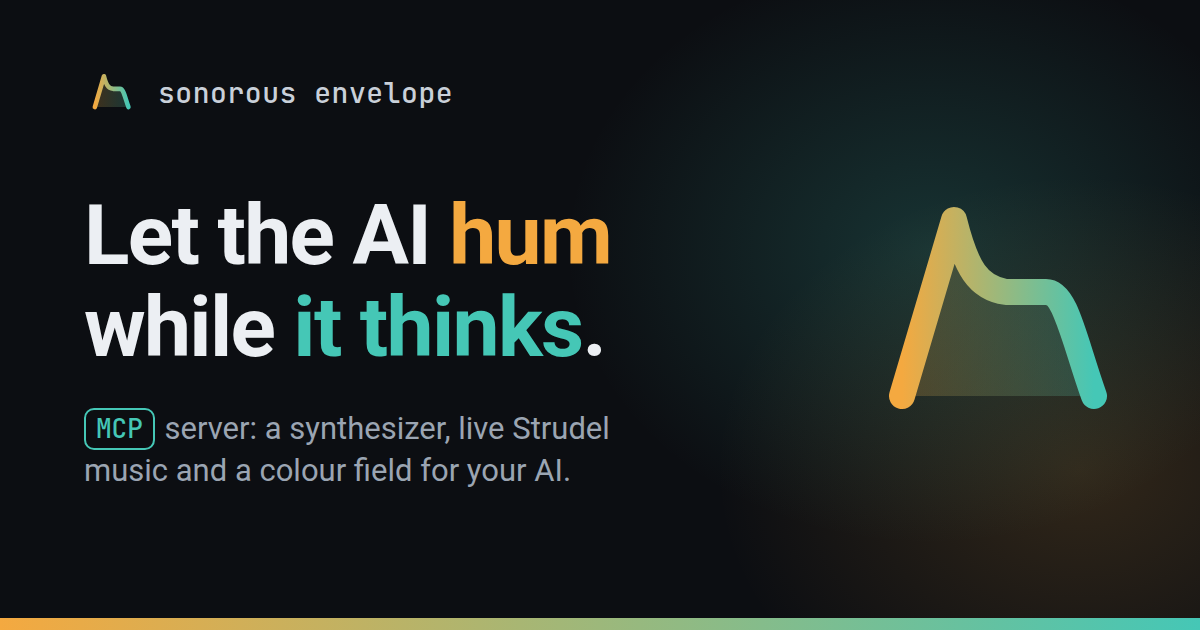
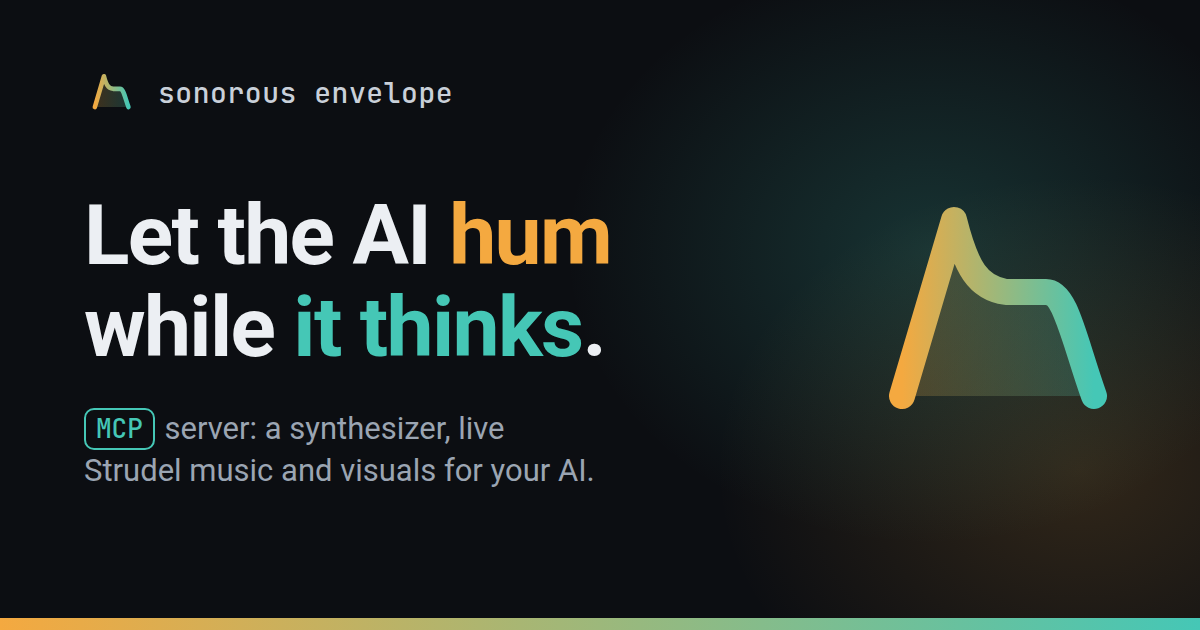
Say visuals, not only a colour field, on the share card and in its alt text

Changed region(s): [[0.0617, 0.7238, 0.4933, 0.7841], [0.4317, 0.6635, 0.5242, 0.6937]]

diff --git a/apps/web/lib/site.ts b/apps/web/lib/site.ts
@@ -1,7 +1,7 @@
 /** The public address, for metadata and the sitemap. Falls back to the production domain so a build without env vars still works. */
 export const SITE_URL = (process.env.PUBLIC_BASE_URL || "https://sonorous-envelope.com").replace(/\/+$/, "");
 
-const OG_IMAGE = { url: "/brand/og-image.png", width: 1200, height: 630, alt: "Sonorous Envelope: let the AI hum while it thinks. Non-verbal communication for your AI: a synthesizer and a colour field beside the chat." };
+const OG_IMAGE = { url: "/brand/og-image.png", width: 1200, height: 630, alt: "Sonorous Envelope: let the AI hum while it thinks. Non-verbal communication for your AI: a synthesizer, live Strudel music and visuals beside the chat." };
 
 /** Metadata for a public page: its own title, description and canonical path, carried into the link previews (Open Graph and X), which otherwise keep the home page's. */
 export function pageMeta(title: string, description: string, path: string) {

diff --git a/apps/web/app/layout.tsx b/apps/web/app/layout.tsx
@@ -31,7 +31,7 @@ export const metadata: Metadata = {
   },
   openGraph: {
     type: "website", siteName: "Sonorous Envelope", title: TITLE, description: DESCRIPTION, url: "/",
-    images: [{ url: "/brand/og-image.png", width: 1200, height: 630, alt: "Sonorous Envelope: let the AI hum while it thinks. Non-verbal communication for your AI: a synthesizer and a colour field beside the chat." }],
+    images: [{ url: "/brand/og-image.png", width: 1200, height: 630, alt: "Sonorous Envelope: let the AI hum while it thinks. Non-verbal communication for your AI: a synthesizer, live Strudel music and visuals beside the chat." }],
   },
   twitter: { card: "summary_large_image", title: TITLE, description: DESCRIPTION, images: ["/brand/og-image.png"] },
 };

diff --git a/docs/brand/og-card.html b/docs/brand/og-card.html
@@ -31,6 +31,6 @@ p{text-wrap:balance;font-size:31px;line-height:42px;color:#9ba5b2;margin-top:34p
     <span>sonorous envelope</span>
   </div>
   <h1>Let the AI <span class="hum">hum</span> while <span class="think">it thinks</span>.</h1>
-  <p><span class="chip">MCP</span> server: a synthesizer, live Strudel music and a colour field for your AI.</p>
+  <p><span class="chip">MCP</span> server: a synthesizer, live Strudel music and visuals for your AI.</p>
 </div>
 <div class="bar"></div>
